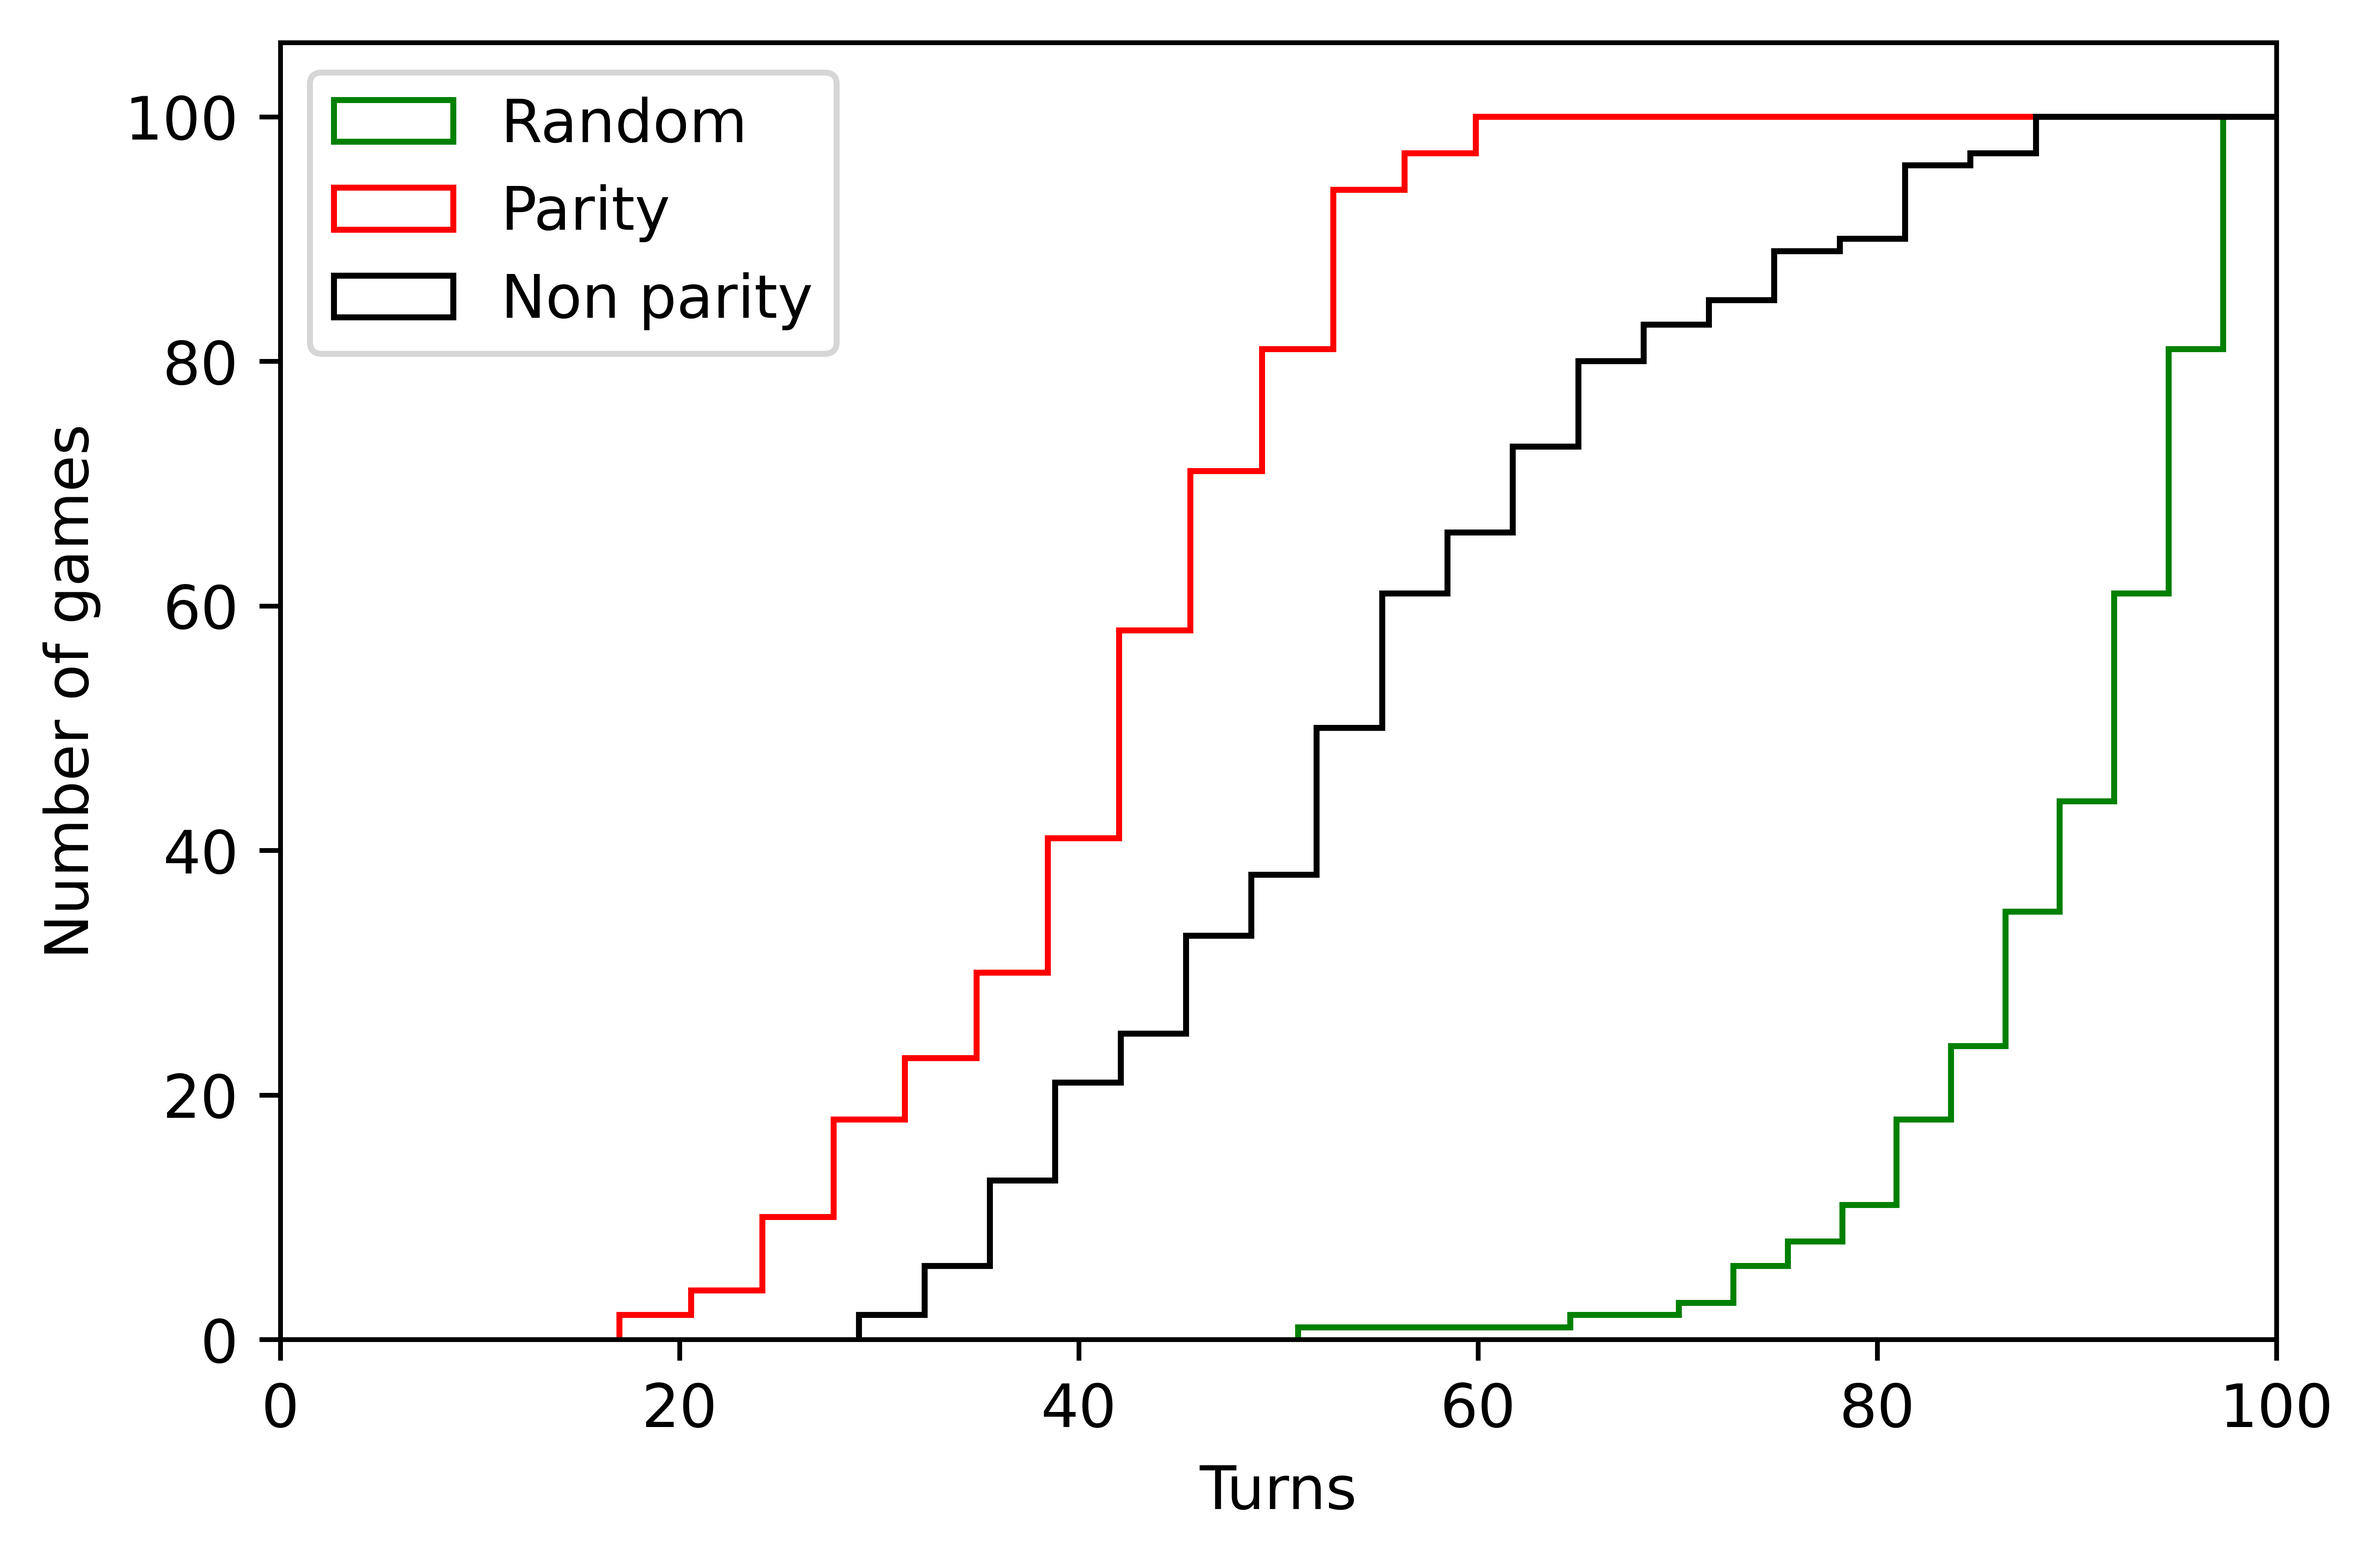
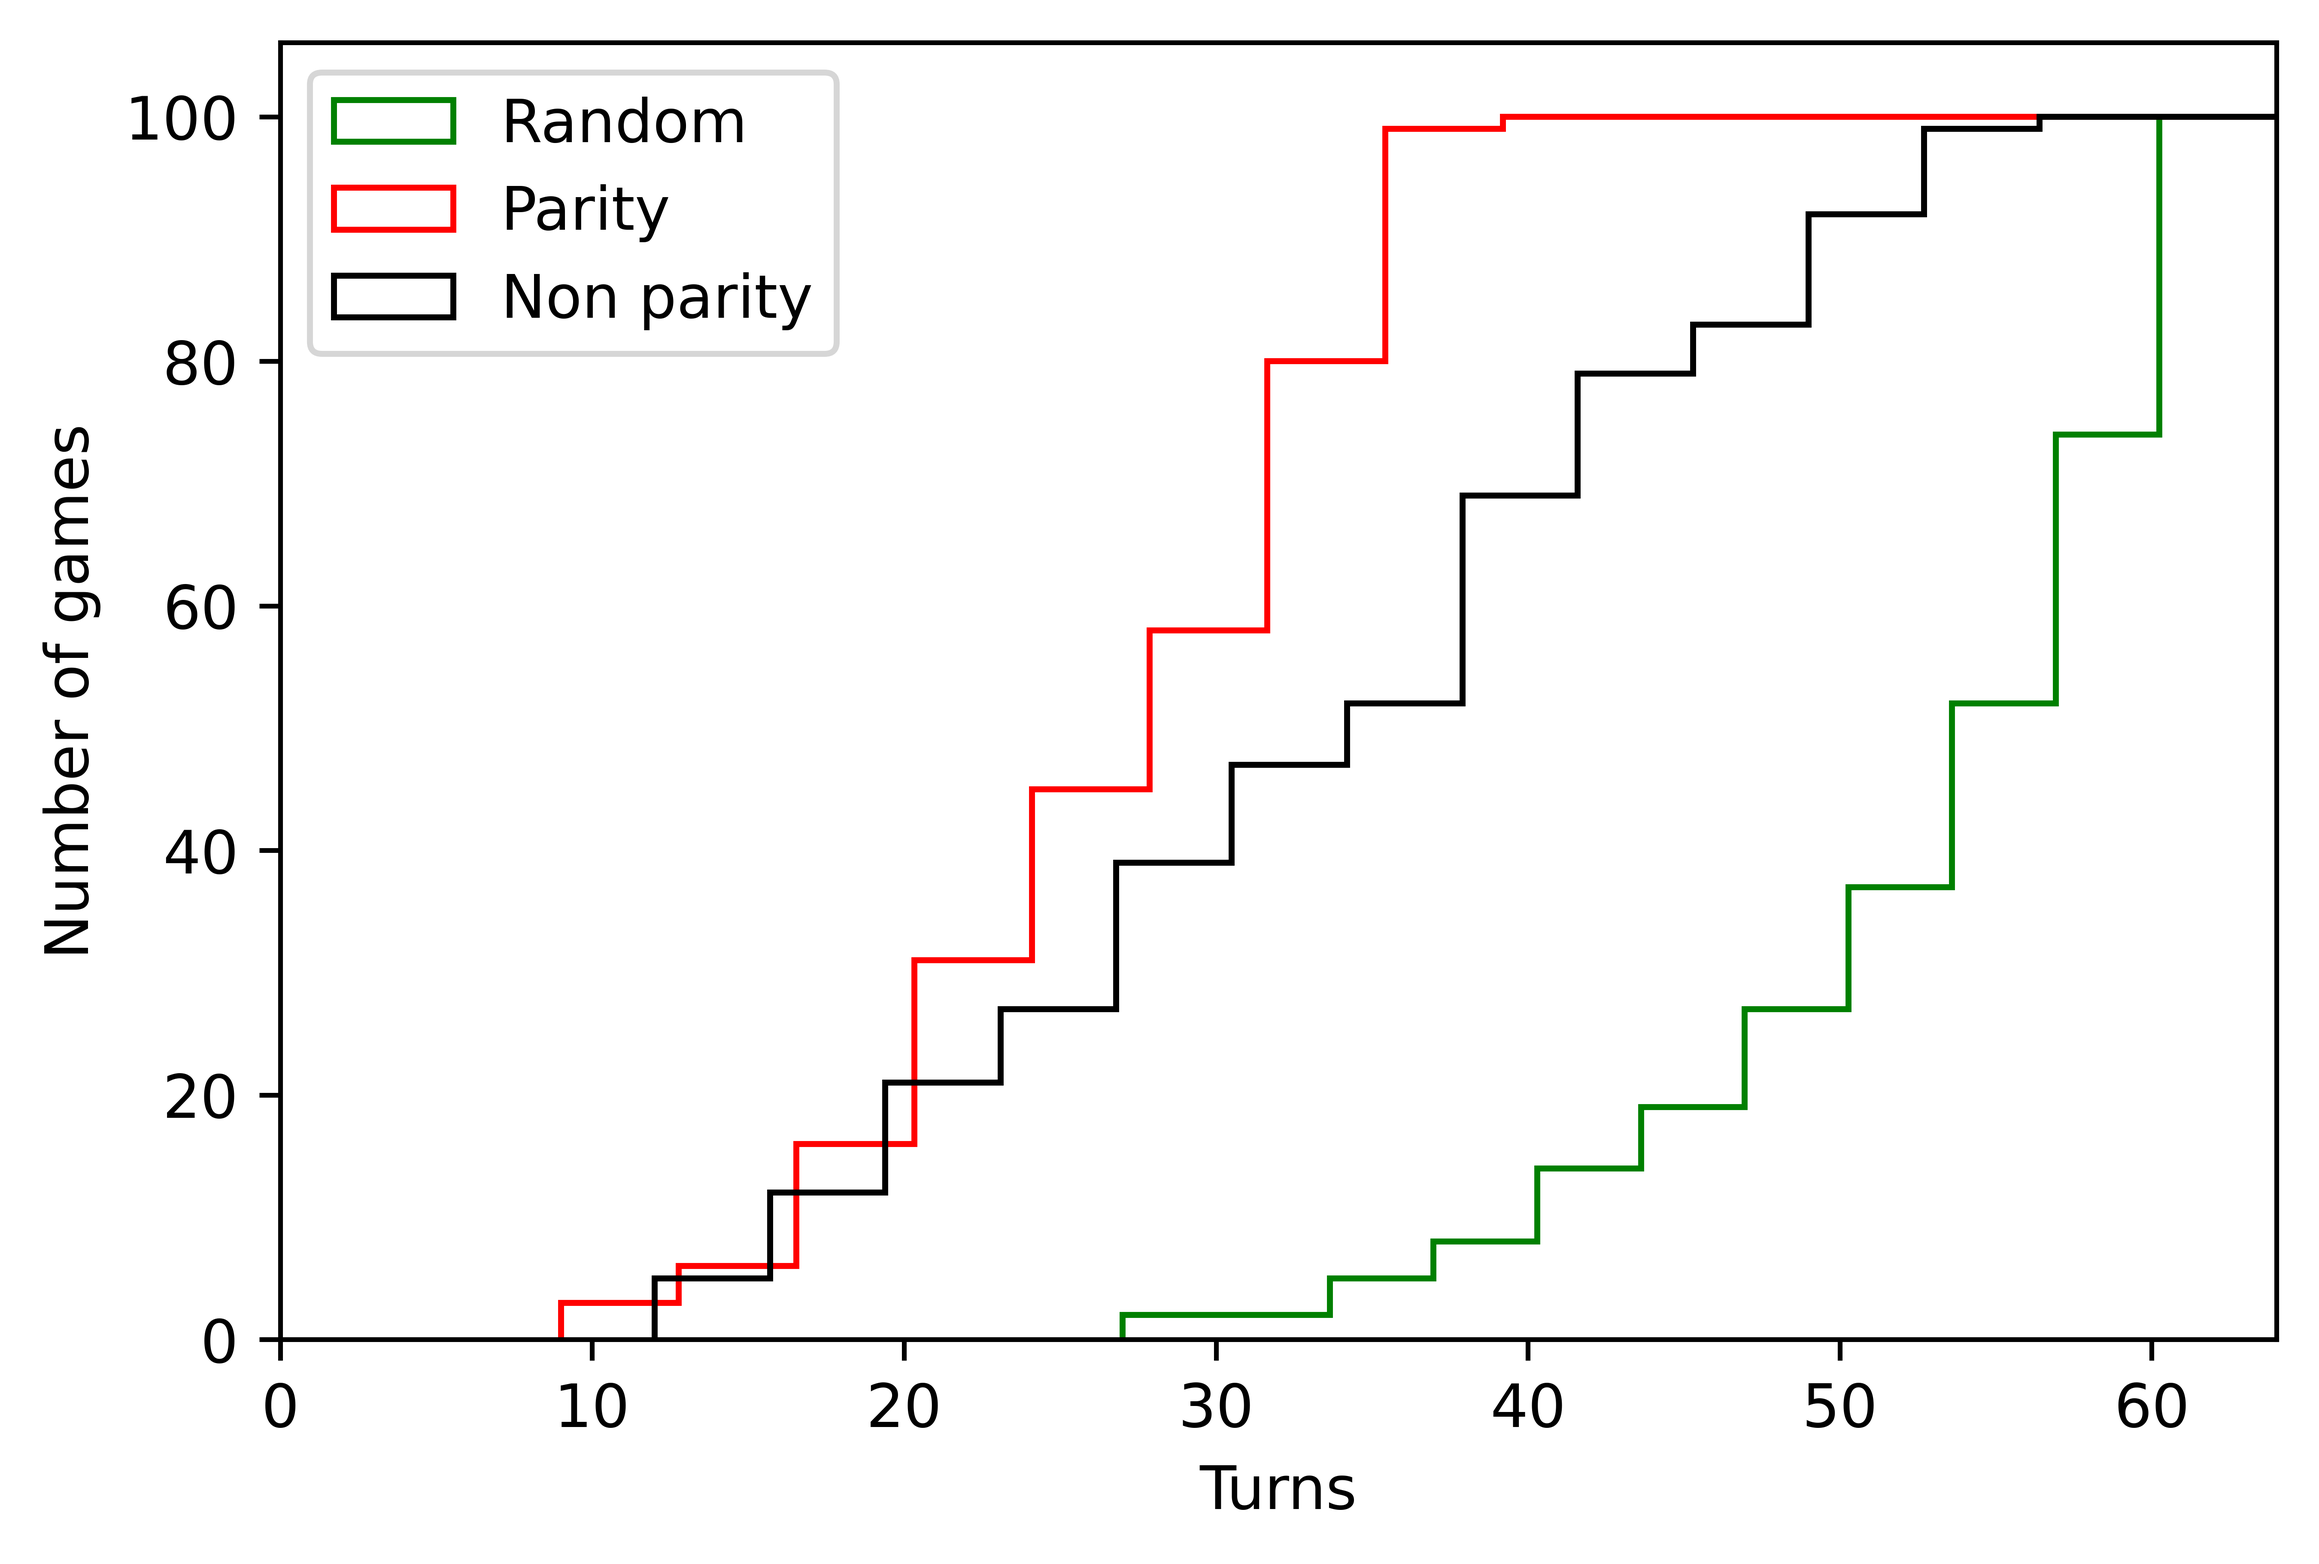
Histograms for 8x8 board

diff --git a/Histograms.py b/Histograms.py
@@ -53,14 +53,14 @@ def play_game(times,guess_strategy):
 
 #RdYlGn
 
-turns1=np.loadtxt('/Users/rikke.ronnow/Documents/random_turns_3.txt')
+turns1=np.loadtxt('/Users/rikke.ronnow/Documents/random_8x8.txt')
 
 #turns2=np.loadtxt('/Users/rikke.ronnow/Documents/random_turns_3.txt')
 
 
-parity=np.loadtxt('/Users/rikke.ronnow/Documents/RandomPlacement_Parity3ships.txt')
+parity=np.loadtxt('/Users/rikke.ronnow/Documents/parity_8x8.txt')
 
-nonparity=np.loadtxt('/Users/rikke.ronnow/Documents/NonParityRandom.txt')
+nonparity=np.loadtxt('/Users/rikke.ronnow/Documents/nonparity_8x8.txt')
 
 # turns1=np.append(turns1,-1)
 # turns2=np.append(turns1,)
@@ -106,7 +106,7 @@ plt.hist(nonparity, bins = 40, histtype='step', cumulative=True, color='k',label
 #plt.hist(turns2, bins = 50, histtype='step', cumulative=True, color=colors[4])
 
 plt.legend()
-plt.xlim(0,100)
+plt.xlim(0,64)
 plt.ylabel('Number of games')
 plt.xlabel('Turns')
 
